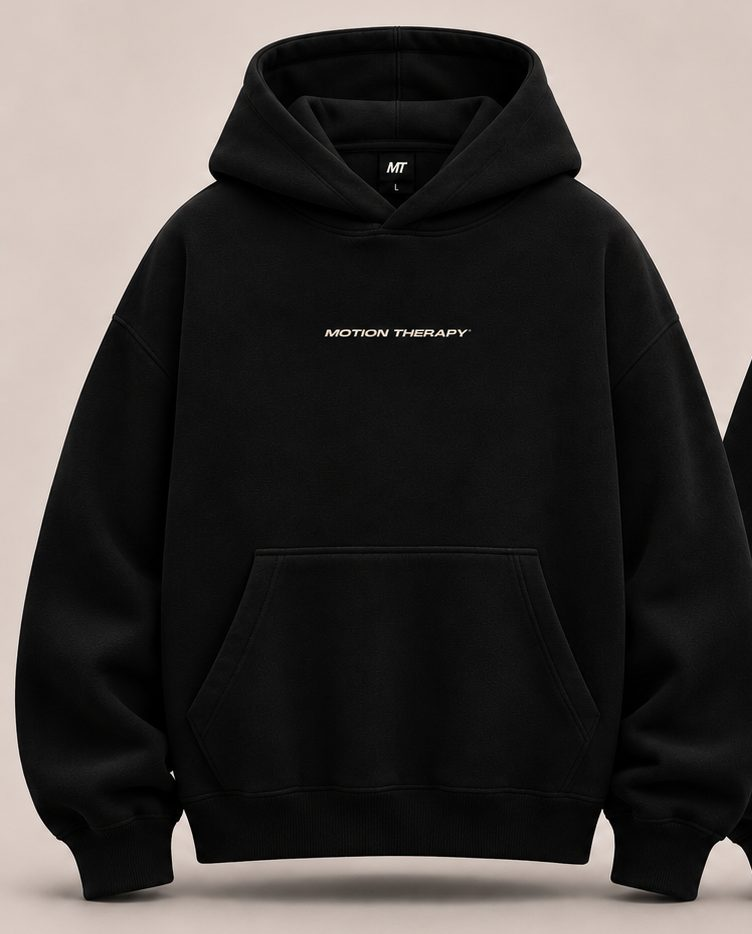
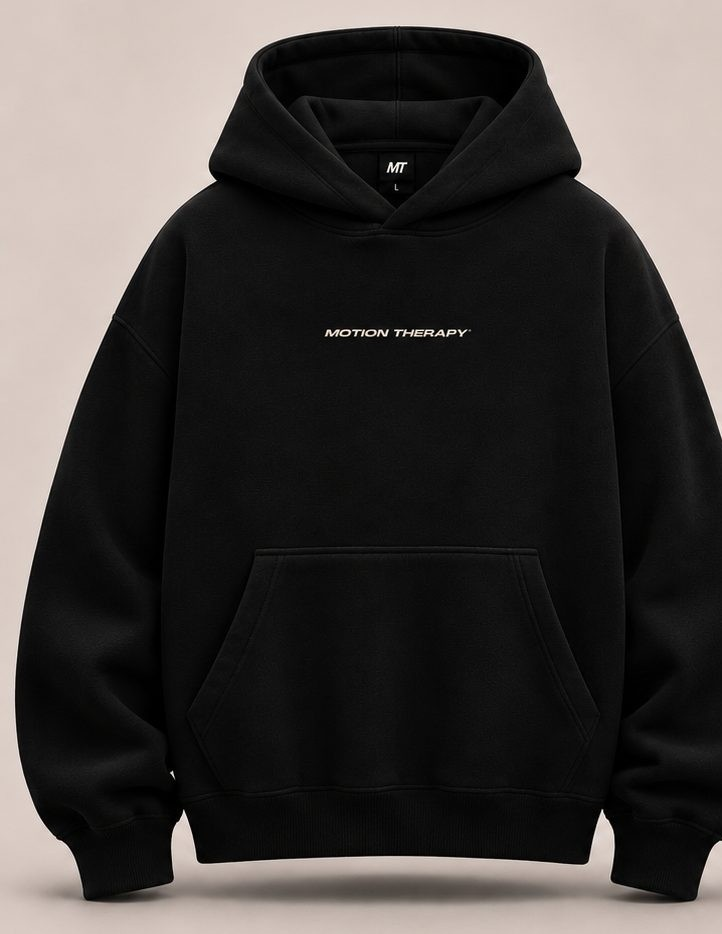
Widen the matching set photos, tidy the phone drop details and the gap after Train/Recover/Grow
Claude-Session: https://claude.ai/code/session_01SJgJNK8YtVSgvMVeZydpkx

diff --git a/index.html b/index.html
@@ -204,7 +204,6 @@
   main > section.section:not(#train) > .wrap, footer.closing > .wrap { height: auto !important; }
   main > section.section.g2 > .wrap, footer.closing.g2m > .wrap { display: flex !important; flex-direction: column; row-gap: var(--head-gap); }
   /* the set photos at their own shape, so both pieces show whole */
-  #set .pair { max-width: 960px; }
   #set .pair .shot { height: auto !important; aspect-ratio: 4 / 5; }
   /* the game teaser is as tall as what's in it */
   .bj--teaser { min-height: 0 !important; }
@@ -219,6 +218,13 @@
   [data-moment="pinned-chapters"]#train.is-live .mo-pc__visuals { background: none !important; border: 0 !important; box-shadow: none !important; }
   [data-moment="pinned-chapters"]#train.is-live .mo-pc__visual { display: flex; align-items: center; justify-content: center; background: none; }
   [data-moment="pinned-chapters"]#train.is-live .mo-pc__visual > img { width: auto !important; height: auto !important; max-width: 100%; max-height: 100%; aspect-ratio: auto !important; object-fit: contain; border-radius: var(--r-md); }
+  /* a phone: no empty screen after the Train/Recover/Grow rows */
+  [data-moment="pinned-chapters"]#train:not(.is-live) { min-height: 0 !important; }
+  /* a phone: the drop's names keep their width and the values wrap beside them, not a word a line */
+  @media (max-width: 639px) {
+    #drop .rows > li { grid-template-columns: auto minmax(0, 1fr); }
+    #drop .rows__value { white-space: normal; max-width: none; text-wrap: pretty; }
+  }
   /* the hero shows both hoodies whole */
   .hero__stage > img.is-whole { object-fit: contain; }
   /* on a phone the front/back switch sits under the piece, not over it */
@@ -427,7 +433,7 @@
         <p class="measure">Buy the matching set for $65.</p>
       </div>
       <div class="pair"><div class="grid">
-        <div class="shot span-6"><img src="img/s-hoodie.jpg" alt="The black Lily Hoodie from the front, with the small wordmark on the chest" loading="lazy" width="752" height="934" data-source="client" data-subject="Lily Hoodie front"></div>
+        <div class="shot span-6"><img src="img/s-hoodie.jpg" alt="The black Lily Hoodie from the front, with the small wordmark on the chest" loading="lazy" width="722" height="934" data-source="client" data-subject="Lily Hoodie front"></div>
         <div class="shot span-6"><img src="img/s-pants.jpg" alt="The black Everyday Sweatpants with the stacked wordmark in cream on the thigh" loading="lazy" width="900" height="1079" data-source="client" data-subject="black sweatpants"></div>
       </div></div>
     </div>
